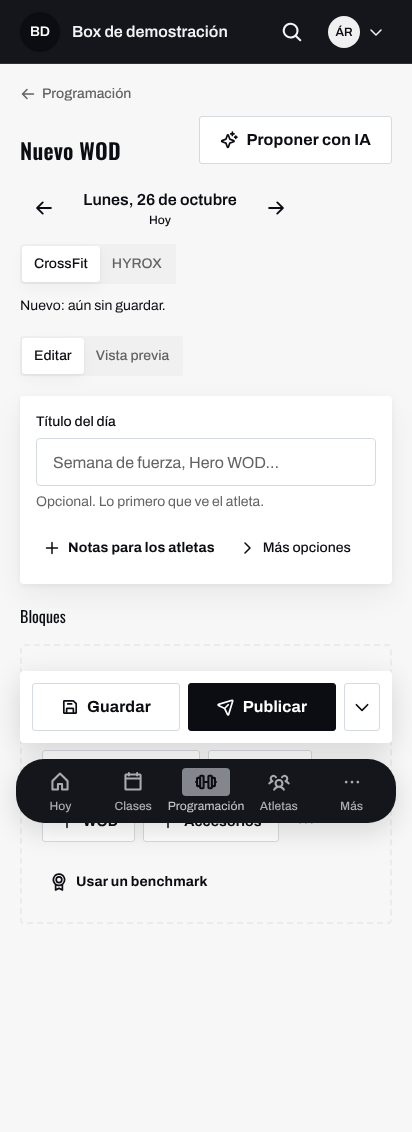
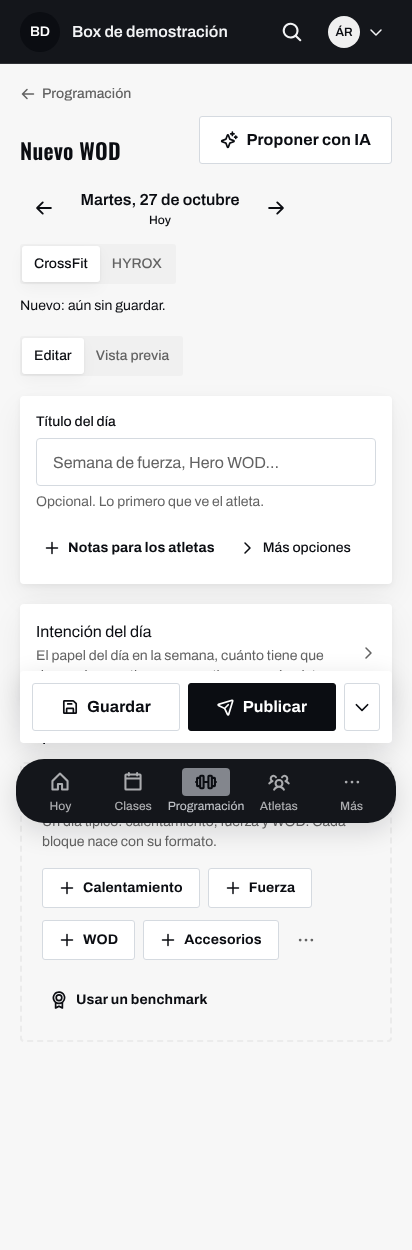
Planificación: pulido tras revisar las pantallas y capturas (ADR 0053)
- La logística y el equilibrio de la semana no cuentan el calentamiento ni la vuelta a la
  calma: rotan por estaciones y no son el trabajo que reparte el plan.
- Semana del plan: a la vista, la logística que hay que resolver; "por parejas", al
  desplegar las comprobaciones.
- Material: el aviso de reparación va debajo del nombre (en el móvil lo aplastaba).
- Navegación: Planificación detrás de Atletas, para que la barra del móvil no se pise.
- Prueba de interfaz de la planificación en escritorio y móvil, y capturas en docs/capturas.

Claude-Session: https://claude.ai/code/session_015jjhfaDM4gxyj8kBjRrCvz

Changed region(s): [[0.0, 0.0, 1.0, 0.8039], [0.8738, 0.4947, 0.9029, 0.5256]]

diff --git a/apps/web/src/routes/fitness/planning/week.tsx b/apps/web/src/routes/fitness/planning/week.tsx
@@ -406,6 +406,19 @@ function DayRow({
   const isToday = day.date === time.today;
   const past = day.date < time.today;
   const quiet = !role && !w;
+  const logisticsLines = (d: PlanWeekDay, keep: (l: PlanWeekDay["logistics"][number]) => boolean) =>
+    d.logistics.filter(keep).map((l) => (
+      <p key={l.label} className="flex items-start gap-2 text-secondary text-ink">
+        <Icon.UsersThree size={16} aria-hidden="true" className="mt-0.5 shrink-0 text-muted" />
+        {t(`logistics.${l.mode}`, {
+          block: l.label,
+          available: l.available,
+          needed: l.needed,
+          waves: l.waves,
+          size: d.classSize,
+        })}
+      </p>
+    ));
   return (
     <li
       className={`grid grid-cols-[3.5rem_minmax(0,1fr)] gap-3 sm:grid-cols-[5rem_minmax(0,1fr)] ${quiet ? "opacity-70" : ""}`}
@@ -495,24 +508,8 @@ function DayRow({
                 {w.intent?.feel ? (
                   <p className="text-secondary italic text-muted">{w.intent.feel}</p>
                 ) : null}
-                {day.logistics
-                  .filter((l) => l.mode !== "ok")
-                  .map((l) => (
-                    <p key={l.label} className="flex items-start gap-2 text-secondary text-ink">
-                      <Icon.UsersThree
-                        size={16}
-                        aria-hidden="true"
-                        className="mt-0.5 shrink-0 text-muted"
-                      />
-                      {t(`logistics.${l.mode}`, {
-                        block: l.label,
-                        available: l.available,
-                        needed: l.needed,
-                        waves: l.waves,
-                        size: day.classSize,
-                      })}
-                    </p>
-                  ))}
+                {/* A la vista, lo que el coach tiene que resolver; "por parejas", al desplegar. */}
+                {logisticsLines(day, (l) => l.mode !== "ok" && l.mode !== "partners")}
                 <button
                   type="button"
                   aria-expanded={open}
@@ -526,7 +523,12 @@ function DayRow({
                   />
                   {t("checks")}
                 </button>
-                {open ? <ValidationList results={day.validation} /> : null}
+                {open ? (
+                  <>
+                    <ValidationList results={day.validation} />
+                    {logisticsLines(day, (l) => l.mode === "partners")}
+                  </>
+                ) : null}
               </div>
             ) : role && !day.closed ? (
               <div className="flex flex-wrap items-center justify-between gap-2 rounded-control border-2 border-dashed border-line px-3 py-2">

diff --git a/apps/web/src/routes/fitness/planning/equipment.tsx b/apps/web/src/routes/fitness/planning/equipment.tsx
@@ -154,21 +154,23 @@ export function EquipmentPage() {
                       .filter(Boolean)
                       .join(" · ")}
                   </span>
+                  {/* El aviso va debajo del nombre: en el móvil, al lado, lo aplastaba. */}
+                  {item.availableToday < item.quantity ? (
+                    <span className="mt-1">
+                      <StatusChip kind="warning">
+                        {item.repairUntil
+                          ? t("repairUntil", {
+                              count: item.quantity - item.availableToday,
+                              date: time.weekday(item.repairUntil, "short"),
+                            })
+                          : t("repair", { count: item.quantity - item.availableToday })}
+                      </StatusChip>
+                    </span>
+                  ) : null}
                 </span>
-                {item.availableToday < item.quantity ? (
-                  <StatusChip kind="warning">
-                    {item.repairUntil
-                      ? t("repairUntil", {
-                          count: item.quantity - item.availableToday,
-                          date: time.weekday(item.repairUntil, "short"),
-                        })
-                      : t("repair", { count: item.quantity - item.availableToday })}
-                  </StatusChip>
-                ) : (
-                  <span className="text-secondary text-muted">
-                    {t("units", { count: item.quantity })}
-                  </span>
-                )}
+                <span className="shrink-0 text-secondary text-muted">
+                  {t("units", { count: item.quantity })}
+                </span>
                 {canWrite ? (
                   <IconButton
                     label={t("edit", { name: item.name })}

diff --git a/apps/api/src/routes/planning-common.ts b/apps/api/src/routes/planning-common.ts
@@ -342,7 +342,7 @@ export function analyseDays(ctx: WeekContext): WeekDayAnalysis[] {
         prescriptions: prescription ? [prescription] : [],
       });
       logistics = blocks
-        .filter((b) => b.track === "class")
+        .filter((b) => b.track === "class" && b.kind !== "warmup" && b.kind !== "cooldown")
         .map((b) => logisticsOf(b, inventory, classSize))
         .filter((l): l is BlockLogistics => l !== null);
     }
@@ -385,14 +385,28 @@ export function weekCoverage(ctx: WeekContext): ComboCoverage[] {
   );
 }
 
+/**
+ * Si un bloque cuenta en el equilibrio: de la clase, con capacidad y minutos, y que no sea el
+ * calentamiento ni la vuelta a la calma (preparan, no entrenan lo que reparte el plan).
+ */
+export function trainsCapacity(
+  b: Pick<WorkoutBlockRecord, "track" | "capacity" | "plannedMinutes" | "kind">,
+): boolean {
+  return (
+    b.track === "class" &&
+    b.capacity !== null &&
+    b.plannedMinutes !== null &&
+    b.kind !== "warmup" &&
+    b.kind !== "cooldown"
+  );
+}
+
 /** Reparto de los minutos programados de la semana por capacidad, en puntos sobre 100. */
 export function weekBalance(ctx: WeekContext): Emphasis {
   const minutes = Object.fromEntries(CAPACITIES.map((c) => [c, 0])) as Record<Capacity, number>;
   for (const w of ctx.workouts.values()) {
     if (!ctx.dates.includes(w.onDate)) continue;
-    for (const b of w.blocks)
-      if (b.track === "class" && b.capacity && b.plannedMinutes)
-        minutes[b.capacity] += b.plannedMinutes;
+    for (const b of w.blocks) if (trainsCapacity(b)) minutes[b.capacity!] += b.plannedMinutes!;
   }
   const total = CAPACITIES.reduce((s, c) => s + minutes[c], 0);
   return Object.fromEntries(

diff --git a/apps/web/src/layouts/club-shell.tsx b/apps/web/src/layouts/club-shell.tsx
@@ -242,11 +242,13 @@ function ClubFrame({ children }: { children: ReactNode }) {
                   ...(has("org.training.read")
                     ? [link(paths.programming, fx("programming"), Icon.Barbell)]
                     : []),
-                  ...(has("org.training.read")
-                    ? [link(paths.planning, fx("planning"), Icon.Rows)]
-                    : []),
                   ...(has("org.players.read")
                     ? [link(paths.athletes, fx("athletes"), Icon.UsersThree)]
+                    : []),
+                  // Detrás de Atletas: en el móvil va en "Más" (la barra admite cuatro destinos) y
+                  // se llega también desde la franja del plan en la Programación.
+                  ...(has("org.training.read")
+                    ? [link(paths.planning, fx("planning"), Icon.Rows)]
                     : []),
                 ]
               : []),

diff --git a/apps/api/src/routes/fitness-planning-review.ts b/apps/api/src/routes/fitness-planning-review.ts
@@ -29,6 +29,7 @@ import {
   planSummaryDto,
   requirePlan,
   requireWritablePlan,
+  trainsCapacity,
   weekLimitsOf,
 } from "./planning-common.ts";
 import { applyAdjustment, computeReview } from "./planning-review.ts";
@@ -246,8 +247,7 @@ export function addPlanningReviewRoutes(app: OpenAPIHono<AppEnv>, data: DataLaye
           const w = ctx.workouts.get(date);
           if (!w) continue;
           for (const b of w.blocks)
-            if (b.track === "class" && b.capacity && b.plannedMinutes)
-              minutes[b.capacity] += b.plannedMinutes;
+            if (trainsCapacity(b)) minutes[b.capacity!] += b.plannedMinutes!;
         }
       const total = CAPACITIES.reduce((s, x) => s + minutes[x], 0);
 

diff --git a/packages/shared/src/planning-analysis.ts b/packages/shared/src/planning-analysis.ts
@@ -517,7 +517,9 @@ export function validateSession(input: ValidateInput): ValidationResult[] {
     );
   }
 
+  // El calentamiento y la vuelta a la calma rotan por estaciones: no se miden por puestos.
   const logistics = cls
+    .filter((b) => b.kind !== "warmup" && b.kind !== "cooldown")
     .map((b) => logisticsOf(b, input.inventory, input.classSize))
     .filter((l): l is BlockLogistics => l !== null);
   const short = logistics.find((l) => l.mode === "short");

diff --git a/docs/capturas/README.md b/docs/capturas/README.md
@@ -1,4 +1,4 @@
-# Capturas de la interfaz (Bloques 14 a 26, pizarra animada, tienda, pasarela y contabilidad, identidad del club, mejoras de la plataforma, clubs de fitness y su revisión)
+# Capturas de la interfaz (Bloques 14 a 26, pizarra animada, tienda, pasarela y contabilidad, identidad del club, mejoras de la plataforma, clubs de fitness, su revisión y la planificación del box)
 
 Capturas que generan las pruebas de interfaz (`pnpm test:ui`) contra la API real con base embebida, con el front de Vite + React + Tailwind sobre el design system del producto (`packages/design`, ADR 0027). Escritorio a 1280x800; móvil, Pixel 7. La fuente viva es el artefacto `capturas-interfaz` de CI; esta carpeta es la foto de la revisión del club completo (ADR 0031), con el design system 1.3: todo botón lleva el icono de su acción (rueda dentada para editar, cubo de basura rojo para eliminar, más para añadir); la fila es el objeto (se abre tocándola, con acciones como iconos silenciosos sin borde); la paleta de mandos ⌘K encuentra personas, equipos, pantallas y acciones; y la plantilla de un equipo se ve como un tablero por posición: secciones por deporte, socios, agenda e instalaciones, cuotas y "ver como", sobre lo que ya había de los bloques 11 a 13 (ADR 0028, 0029 y 0030), más el alcance por cargo y la gestión de acceso por rol del Bloque 19 (ADR 0033): el cuerpo técnico, la dirección y la fisio ven solo su parte del club, y "Personal" gana la pestaña "Acceso", y el partido en directo del Bloque 20 (ADR 0034): configuración del motor por sección, consola en la banda a pantalla completa y en tres zonas con el banquillo arrastrable (ADR 0037), estadísticas e histórico, y el entrenamiento de los bloques 21 a 26 (ADR 0039): semana del equipo con "A tener en cuenta", sesión por bloques con su cierre y modo pista, biblioteca con pizarra, carga, enfermería, salud y "Mi bienestar".
 
@@ -776,6 +776,64 @@ Cuentas, con contraseña `123456`: `atleta@demo.test` (Laia Ferrer, atleta con t
 
 ![Una semana vacía: copiar la anterior o programar cada día](escritorio-293-box-programacion-dia-vacio.png)
 
+## Planificación del box (ADR 0053)
+
+### Planificación: el plan activo de cada disciplina, su punto del ciclo y el papel de cada día
+
+![Planificación: el plan activo de cada disciplina, su punto del ciclo y el papel de cada día](escritorio-300-box-planificacion.png)
+
+### El plan: dónde está el box, el mapa del ciclo, el reparto de los 100 puntos y lo que se puede esperar
+
+![El plan: dónde está el box, el mapa del ciclo, el reparto de los 100 puntos y lo que se puede esperar](escritorio-301-box-plan-mapa.png)
+
+### La semana del plan: cada día con su papel, su intención, su progresión, su WOD y el validador; equilibrio, cobertura y límites
+
+![La semana del plan: cada día con su papel, su intención, su progresión, su WOD y el validador; equilibrio, cobertura y límites](escritorio-302-box-plan-semana.png)
+
+### La revisión del domingo: lo previsto frente a lo que pasó, los ajustes y lo que ha aprendido el box
+
+![La revisión del domingo: lo previsto frente a lo que pasó, los ajustes y lo que ha aprendido el box](escritorio-303-box-plan-revision.png)
+
+### La salud de la programación: cumplimiento, equilibrio real, duraciones, patrones por semana y coste de la IA
+
+![La salud de la programación: cumplimiento, equilibrio real, duraciones, patrones por semana y coste de la IA](escritorio-304-box-plan-salud.png)
+
+### El material del box, con lo que está en reparación
+
+![El material del box, con lo que está en reparación](escritorio-305-box-material.png)
+
+### Nuevo plan, paso 1: la IA o una plantilla, con la proyección al lado
+
+![Nuevo plan, paso 1: la IA o una plantilla, con la proyección al lado](escritorio-306-box-plan-nuevo-objetivo.png)
+
+### Nuevo plan, paso 3: repartir 100 puntos entre seis capacidades
+
+![Nuevo plan, paso 3: repartir 100 puntos entre seis capacidades](escritorio-307-box-plan-nuevo-enfasis.png)
+
+### Nuevo plan, paso 5: lo que ya sabe el box y de dónde sale cada dato
+
+![Nuevo plan, paso 5: lo que ya sabe el box y de dónde sale cada dato](escritorio-308-box-plan-nuevo-tu-box.png)
+
+### Nuevo plan, paso 6: el resumen con el mapa del ciclo
+
+![Nuevo plan, paso 6: el resumen con el mapa del ciclo](escritorio-309-box-plan-nuevo-resumen.png)
+
+### El editor del WOD con la intención del día y los campos del plan
+
+![El editor del WOD con la intención del día y los campos del plan](escritorio-310-box-plan-editor-intencion.png)
+
+### El WOD del atleta: el plan, el papel, la intención y su versión en cada bloque
+
+![El WOD del atleta: el plan, el papel, la intención y su versión en cada bloque](escritorio-315-box-atleta-wod-plan.png)
+
+### Tu ciclo: dónde estás, tus marcas con su rango, tu constancia y tu nivel
+
+![Tu ciclo: dónde estás, tus marcas con su rango, tu constancia y tu nivel](escritorio-316-box-atleta-ciclo.png)
+
+### Tu ciclo en cifras, para guardar o compartir
+
+![Tu ciclo en cifras, para guardar o compartir](escritorio-317-box-atleta-ciclo-cifras.png)
+
 ## Móvil
 
 Las mismas pantallas en un móvil, con la forma envolvente del design system: cabecera con el escudo, barra de pestañas flotante abajo con cuatro destinos y "Más", listas en filas cápsula y hojas que ocupan todo el ancho.
@@ -1021,3 +1079,33 @@ Las mismas pantallas en un móvil, con la forma envolvente del design system: ca
 ![Editor del WOD: la pestaña Editar (móvil)](movil-291-box-programacion-editor.png)
 
 ![Editor del WOD: la pestaña Vista previa (móvil)](movil-292-box-programacion-vista-previa.png)
+
+### Planificación del box (móvil)
+
+![Planificación: el plan activo de cada disciplina, su punto del ciclo y el papel de cada día (móvil)](movil-300-box-planificacion.png)
+
+![El plan: dónde está el box, el mapa del ciclo, el reparto de los 100 puntos y lo que se puede esperar (móvil)](movil-301-box-plan-mapa.png)
+
+![La semana del plan: cada día con su papel, su intención, su progresión, su WOD y el validador; equilibrio, cobertura y límites (móvil)](movil-302-box-plan-semana.png)
+
+![La revisión del domingo: lo previsto frente a lo que pasó, los ajustes y lo que ha aprendido el box (móvil)](movil-303-box-plan-revision.png)
+
+![La salud de la programación: cumplimiento, equilibrio real, duraciones, patrones por semana y coste de la IA (móvil)](movil-304-box-plan-salud.png)
+
+![El material del box, con lo que está en reparación (móvil)](movil-305-box-material.png)
+
+![Nuevo plan, paso 1: la IA o una plantilla, con la proyección al lado (móvil)](movil-306-box-plan-nuevo-objetivo.png)
+
+![Nuevo plan, paso 3: repartir 100 puntos entre seis capacidades (móvil)](movil-307-box-plan-nuevo-enfasis.png)
+
+![Nuevo plan, paso 5: lo que ya sabe el box y de dónde sale cada dato (móvil)](movil-308-box-plan-nuevo-tu-box.png)
+
+![Nuevo plan, paso 6: el resumen con el mapa del ciclo (móvil)](movil-309-box-plan-nuevo-resumen.png)
+
+![El editor del WOD con la intención del día y los campos del plan (móvil)](movil-310-box-plan-editor-intencion.png)
+
+![El WOD del atleta: el plan, el papel, la intención y su versión en cada bloque (móvil)](movil-315-box-atleta-wod-plan.png)
+
+![Tu ciclo: dónde estás, tus marcas con su rango, tu constancia y tu nivel (móvil)](movil-316-box-atleta-ciclo.png)
+
+![Tu ciclo en cifras, para guardar o compartir (móvil)](movil-317-box-atleta-ciclo-cifras.png)
